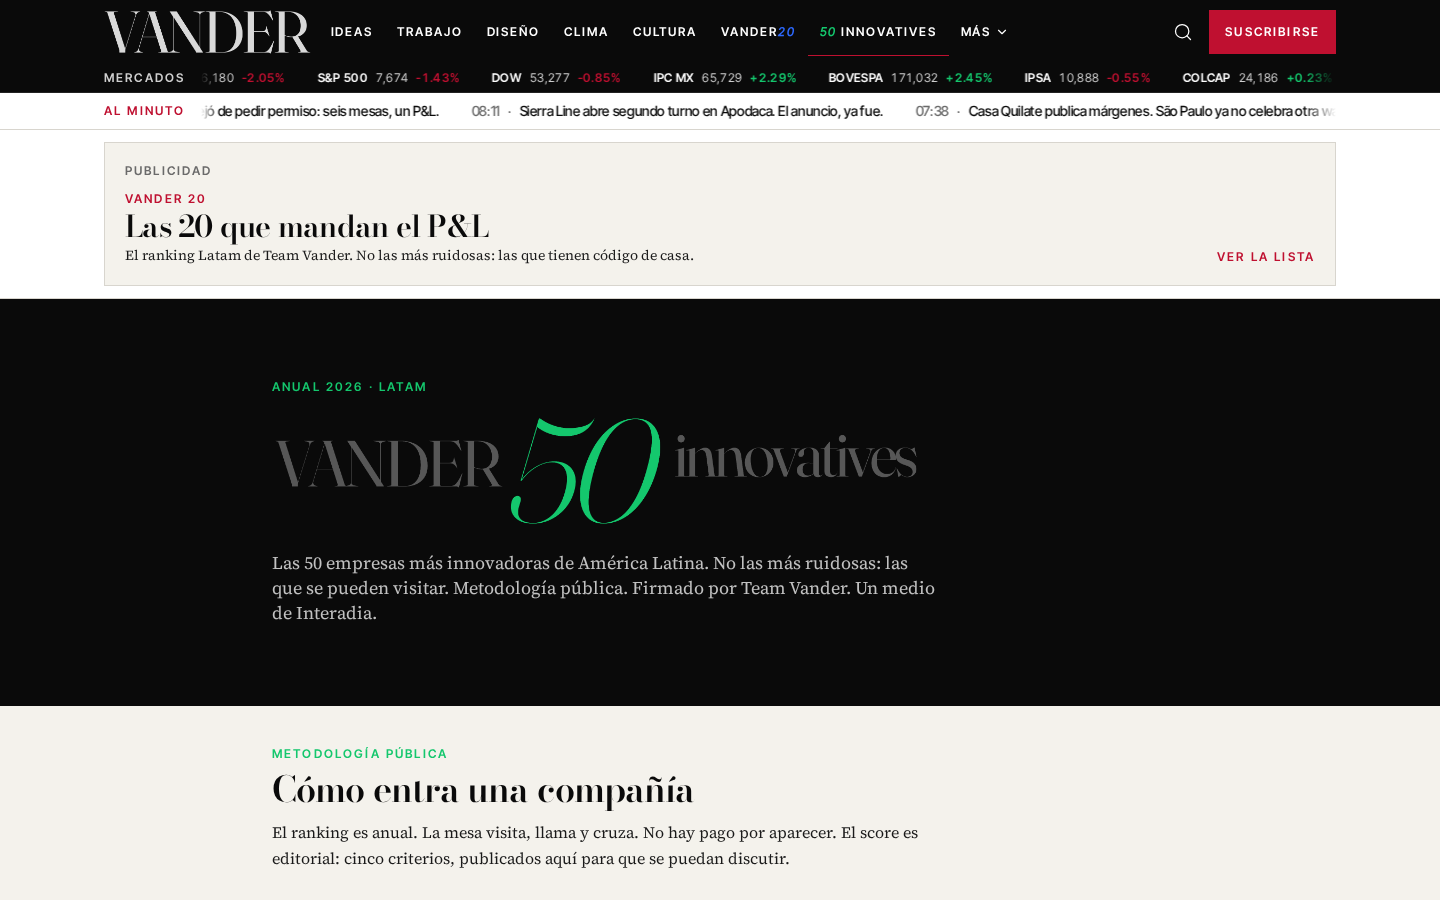
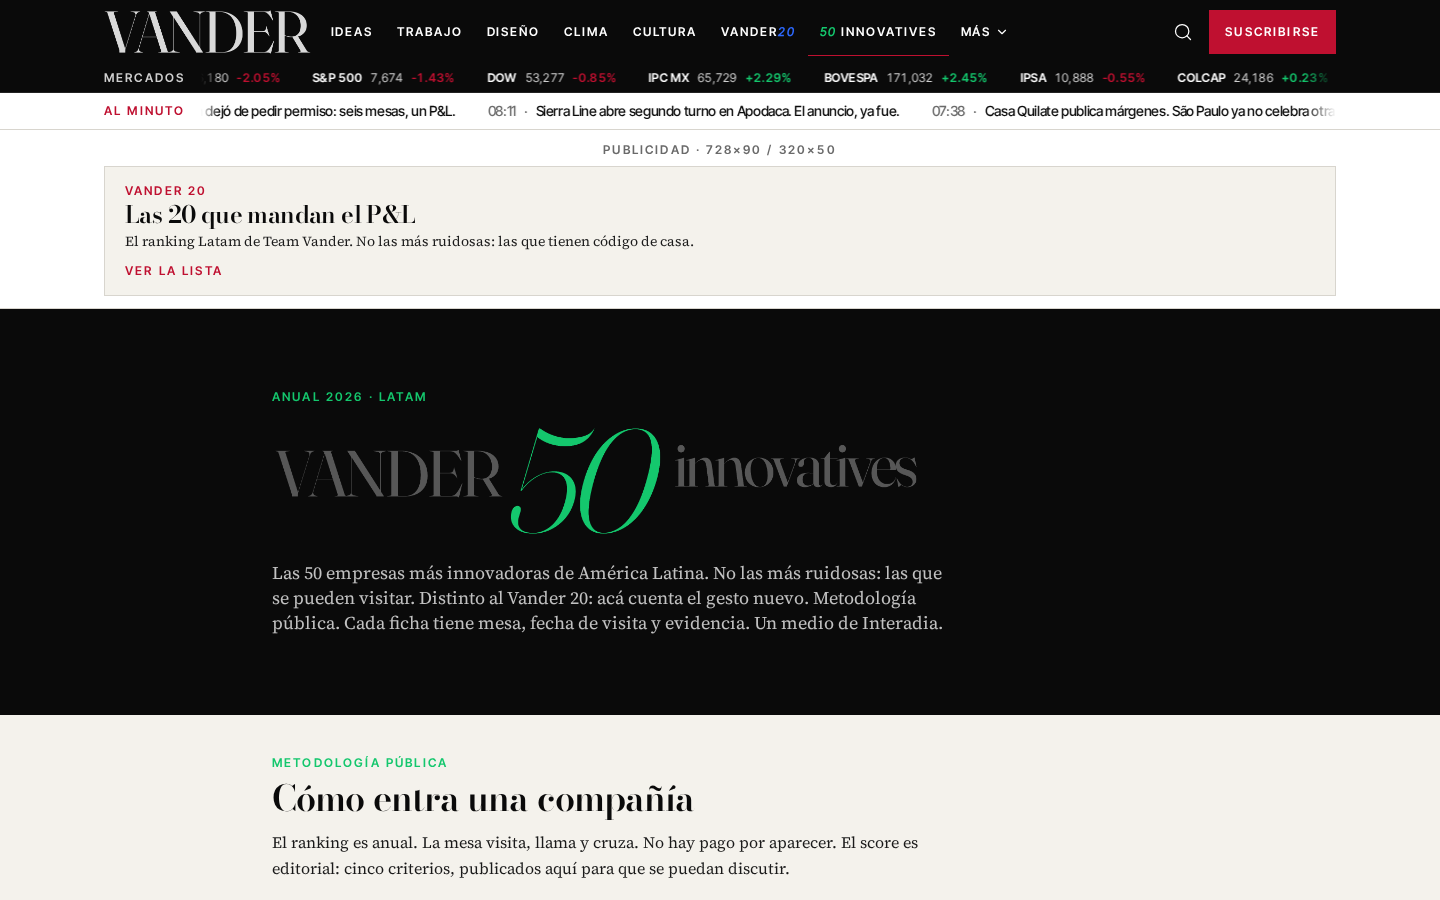
Export from Grok

diff --git a/src/routes/signals.tsx b/src/routes/signals.tsx
@@ -4,6 +4,7 @@ import { SignalRow } from "@/components/article-card";
 import { SignalsMark } from "@/components/brand";
 import { Newsletter } from "@/components/newsletter";
 import { AdSlot } from "@/components/ad-slot";
+import { SignalsField } from "@/components/signals-field";
 
 export const Route = createFileRoute("/signals")({
   component: SignalsPage,
@@ -17,29 +18,31 @@ function SignalsPage() {
 
   return (
     <main>
-      <section className="bg-ink px-4 py-14 text-paper sm:px-6 sm:py-16">
-        <div className="mx-auto max-w-3xl">
-          <h1>
-            <SignalsMark className="h-14 sm:h-20" />
-          </h1>
-          <p className="mt-6 max-w-xl font-body text-lg leading-snug text-paper/75">
-            Lo que todavía no es tendencia pero va a serlo. Notas cortas, 300 palabras, mucha
-            frecuencia. Un indicador, un lugar, una frase.
-          </p>
+      <SignalsField>
+        <div className="px-4 py-14 sm:px-6 sm:py-16">
+          <div className="mx-auto max-w-3xl">
+            <h1>
+              <SignalsMark className="h-14 sm:h-20" />
+            </h1>
+            <p className="mt-6 max-w-xl font-body text-lg leading-snug text-ink-soft">
+              Lo que todavía no es tendencia pero va a serlo. Notas cortas, 300 palabras, mucha
+              frecuencia. Un indicador, un lugar, una frase.
+            </p>
+          </div>
         </div>
-      </section>
-      <section className="mx-auto max-w-3xl px-4 py-10 sm:px-6">
-        <p className="kicker mb-4 text-xs text-muted">{notes.length} señales · lectura rápida</p>
-        {notes.slice(0, 4).map((a) => (
-          <SignalRow key={a.slug} article={a} />
-        ))}
-        <div className="py-6">
-          <AdSlot size="inread" creative="anuncia" />
+        <div className="mx-auto max-w-3xl px-4 pb-14 sm:px-6">
+          <p className="kicker mb-4 text-xs text-muted">{notes.length} señales · lectura rápida</p>
+          {notes.slice(0, 4).map((a) => (
+            <SignalRow key={a.slug} article={a} />
+          ))}
+          <div className="py-6">
+            <AdSlot size="inread" creative="anuncia" />
+          </div>
+          {notes.slice(4).map((a) => (
+            <SignalRow key={a.slug} article={a} />
+          ))}
         </div>
-        {notes.slice(4).map((a) => (
-          <SignalRow key={a.slug} article={a} />
-        ))}
-      </section>
+      </SignalsField>
       <Newsletter />
     </main>
   );

diff --git a/src/routes/innovatives/$slug.tsx b/src/routes/innovatives/$slug.tsx
@@ -2,6 +2,8 @@ import { createFileRoute, Link } from "@tanstack/react-router";
 import { adjacentInnovative, getInnovative, INNOVATIVES } from "@/lib/innovatives";
 import { InnovativesMark } from "@/components/brand";
 import { Newsletter } from "@/components/newsletter";
+import { VerifiedStamp, CrossList } from "@/components/verified-stamp";
+import { verifyOf } from "@/lib/verify";
 
 export const Route = createFileRoute("/innovatives/$slug")({
   component: InnovativeCompany,
@@ -34,6 +36,7 @@ function InnovativeCompany() {
     );
   }
   const { prev, next } = adjacentInnovative(company.slug);
+  const stamp = verifyOf(company.slug);
 
   return (
     <main>
@@ -52,6 +55,12 @@ function InnovativeCompany() {
           <p className="mt-3 kicker text-xs text-silver">
             {company.sector} · {company.city}
           </p>
+          <div className="mt-5">
+            <VerifiedStamp slug={company.slug} dark />
+          </div>
+          <div className="mt-2">
+            <CrossList slug={company.slug} current="50" dark />
+          </div>
         </div>
       </section>
       <figure className="mx-auto max-w-6xl px-4 py-8 sm:px-6">
@@ -61,6 +70,22 @@ function InnovativeCompany() {
         <p className="kicker text-xs text-innov">Por qué entra</p>
         <p className="mt-3 font-body text-lg leading-relaxed">{company.why}</p>
         <p className="mt-5 font-body text-lg leading-relaxed text-ink-soft">{company.blurb}</p>
+        {stamp && (
+          <dl className="mt-8 grid gap-4 border-y border-ink py-5 sm:grid-cols-3">
+            <div>
+              <dt className="kicker text-xs text-muted">Fundada</dt>
+              <dd className="mt-1 font-sans text-sm font-semibold">{stamp.founded}</dd>
+            </div>
+            <div>
+              <dt className="kicker text-xs text-muted">Evidencia</dt>
+              <dd className="mt-1 font-sans text-sm font-semibold">{stamp.proof}</dd>
+            </div>
+            <div>
+              <dt className="kicker text-xs text-muted">Mesa</dt>
+              <dd className="mt-1 font-sans text-sm font-semibold">{stamp.desk}</dd>
+            </div>
+          </dl>
+        )}
         <div className="mt-10 flex justify-between gap-4 border-t border-ink pt-6">
           {prev ? (
             <Link to="/innovatives/$slug" params={{ slug: prev.slug }} className="kicker text-xs hover:text-innov">

diff --git a/src/routes/list/$slug.tsx b/src/routes/list/$slug.tsx
@@ -6,7 +6,6 @@ import { AdSlot } from "@/components/ad-slot";
 import { Newsletter } from "@/components/newsletter";
 import { Vander20Mark } from "@/components/brand";
 import { VerifiedStamp, CrossList } from "@/components/verified-stamp";
-import { verifyOf } from "@/lib/verify";
 
 export const Route = createFileRoute("/list/$slug")({
   component: CompanyPage,
@@ -64,7 +63,7 @@ function CompanyPage() {
             <VerifiedStamp slug={company.slug} dark />
           </div>
           <div className="mt-2">
-            <CrossList slug={company.slug} dark />
+            <CrossList slug={company.slug} current="20" dark />
           </div>
         </div>
       </section>
@@ -73,6 +72,22 @@ function CompanyPage() {
         <article className="lg:col-span-8">
           <img src={company.image} alt={company.imageAlt} className="aspect-video w-full object-cover" />
           <p className="mt-6 font-body text-lg leading-relaxed text-ink">{company.profile}</p>
+          <dl className="mt-8 grid grid-cols-2 gap-4 border-y border-ink py-5 sm:grid-cols-3">
+            <div>
+              <dt className="kicker text-xs text-muted">Mesa</dt>
+              <dd className="mt-1 font-sans text-sm font-semibold">{company.city}</dd>
+            </div>
+            <div>
+              <dt className="kicker text-xs text-muted">Sector</dt>
+              <dd className="mt-1 font-sans text-sm font-semibold">{company.sector}</dd>
+            </div>
+            <div className="col-span-2 sm:col-span-1">
+              <dt className="kicker text-xs text-muted">Verificación</dt>
+              <dd className="mt-1">
+                <VerifiedStamp slug={company.slug} />
+              </dd>
+            </div>
+          </dl>
           <p className="mt-4 font-body text-base leading-relaxed text-ink-soft">
             Ficha firmada por Team Vander. {HOUSE.credit}. El ranking no es un premio: es un argumento
             sobre cómo se siente un negocio cuando el código de casa manda.

diff --git a/src/routes/innovatives/index.tsx b/src/routes/innovatives/index.tsx
@@ -4,6 +4,7 @@ import { HOUSE, ISSUE } from "@/lib/content";
 import { InnovativesMark } from "@/components/brand";
 import { Newsletter } from "@/components/newsletter";
 import { AdSlot } from "@/components/ad-slot";
+import { VerifiedStamp } from "@/components/verified-stamp";
 
 export const Route = createFileRoute("/innovatives/")({
   component: InnovativesPage,
@@ -23,7 +24,8 @@ function InnovativesPage() {
           </h1>
           <p className="mt-6 max-w-2xl font-body text-lg leading-snug text-paper/75">
             Las 50 empresas más innovadoras de América Latina. No las más ruidosas: las que se pueden
-            visitar. Metodología pública. Firmado por Team Vander. {HOUSE.credit}.
+            visitar. Distinto al Vander 20: acá cuenta el gesto nuevo. Metodología pública. Cada ficha
+            tiene mesa, fecha de visita y evidencia. {HOUSE.credit}.
           </p>
         </div>
       </section>
@@ -67,6 +69,9 @@ function InnovativesPage() {
                       </p>
                     </div>
                     <p className="mt-2 font-body text-sm leading-relaxed text-ink-soft sm:text-base">{c.blurb}</p>
+                    <div className="mt-2">
+                      <VerifiedStamp slug={c.slug} />
+                    </div>
                     <p className="mt-2 kicker text-xs text-innov sm:opacity-0 sm:transition-opacity sm:duration-200 sm:group-hover:opacity-100">
                       Por qué entra
                     </p>

diff --git a/src/components/verified-stamp.tsx b/src/components/verified-stamp.tsx
@@ -30,19 +30,30 @@ export function VerifiedStamp({
   );
 }
 
-export function CrossList({ slug, dark = false }: { slug: string; dark?: boolean }) {
+export function CrossList({
+  slug,
+  current,
+  dark = false,
+}: {
+  slug: string;
+  current: "20" | "50";
+  dark?: boolean;
+}) {
   const in20 = getCompany(slug);
   const in50 = getInnovative(slug);
-  if (!in20 && !in50) return null;
+  const other20 = current !== "20" && in20;
+  const other50 = current !== "50" && in50;
+  if (!other20 && !other50) return null;
   return (
     <p className={cn("kicker text-xs", dark ? "text-silver" : "text-muted")}>
-      {in20 && (
+      También en{" "}
+      {other20 && (
         <Link to="/list/$slug" params={{ slug }} className="hover:text-signal">
           Vander 20 · {String(in20.rank).padStart(2, "0")}
         </Link>
       )}
-      {in20 && in50 ? <span className="mx-2">·</span> : null}
-      {in50 && (
+      {other20 && other50 ? <span className="mx-2">·</span> : null}
+      {other50 && (
         <Link to="/innovatives/$slug" params={{ slug }} className="hover:text-innov">
           50 Innovatives · {String(in50.rank).padStart(2, "0")}
         </Link>

diff --git a/src/routes/index.tsx b/src/routes/index.tsx
@@ -140,8 +140,8 @@ function Home() {
           <div className="mt-8 grid gap-6 lg:grid-cols-3">
             {fiftyLead.map((c) => (
               <Link key={c.slug} to="/innovatives/$slug" params={{ slug: c.slug }} className="group block">
-                <span className="photo block aspect-[3/2]">
-                  <img src={c.image} alt="" />
+                <span className="photo block aspect-[3/2] w-full">
+                  <img src={c.image} alt={c.name} className="h-full w-full object-cover" />
                 </span>
                 <p className="mt-3 headline text-3xl tabular-nums text-innov">{String(c.rank).padStart(2, "0")}</p>
                 <h3 className="headline mt-1 text-2xl">{c.name}</h3>

diff --git a/src/lib/innovatives.ts b/src/lib/innovatives.ts
@@ -141,10 +141,13 @@ const INNOV_ORDER = [
 
 const bySlug = Object.fromEntries(INNOVATIVES_RAW.map((c) => [c.slug, c]));
 
-export const INNOVATIVES: Innovative[] = INNOV_ORDER.map((slug, i) => ({
-  ...bySlug[slug],
-  rank: i + 1,
-}));
+export const INNOVATIVES: Innovative[] = INNOV_ORDER.map((slug, i) => {
+  const row = bySlug[slug];
+  if (!row) {
+    throw new Error(`50 Innovatives: falta ${slug}`);
+  }
+  return { ...row, rank: i + 1 };
+});
 
 export const INNOVATIVES_METHOD = [
   {
